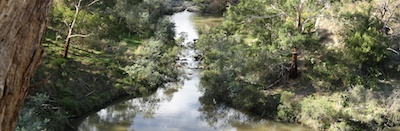
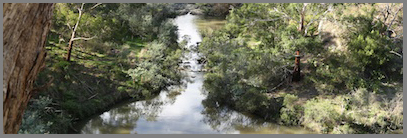
PlentyGorge: Added image border and made bold text

diff --git a/src/flavors/plentygorge/jstemplates/pages/overview.html b/src/flavors/plentygorge/jstemplates/pages/overview.html
@@ -4,7 +4,7 @@
 <p>A new master plan is being developed to set a vision for Plenty Gorge Park for the next 10 years. The plan will set out how the park will be used, as well as the improvements needed to support recreation activities while protecting and conserving the natural values of the park.</p> 
 <p>The current master plan was created 20 years ago, however the surrounding area has gone through huge changes since then, creating new demands and pressures on the park. These changes impact on how the park needs to be developed and managed, and how it connects with the local community.</p>
 <p>A new plan is needed so that Plenty Gorge Park can be at the heart of this changing area.</p>
-<p>Drop a spot on the map using the crosshair and tell us:</p>
+<p><strong>Drop a spot on the map using the crosshair and tell us:</strong></p>
 <p><li>What do you like / dislike about Plenty Gorge Park?</li></p>
 <p><li>What activities you do in the park?</li></p>
 <p><li>What’s your great idea for the future of the park?</li></p>
